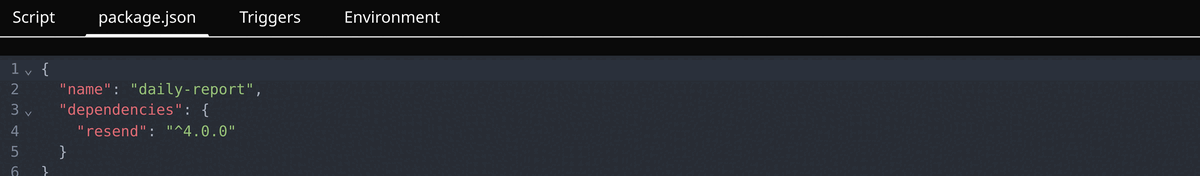
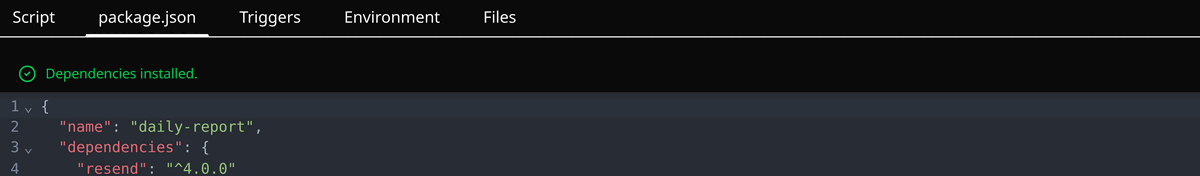
docs(site): refresh the captures and give the Files tab one of its own
The screenshots predated the fifth tab, so the editor shown on the landing
page still had four. All of them are regenerated from a running instance.

The Files tab now carries a capture and a row of its own in step one: the
other tabs show what the database holds, this one shows what the machine has
— the lockfile and the node_modules the install produced.

diff --git a/site/template.html b/site/template.html
@@ -124,6 +124,10 @@
                 <p>{{how.steps.0.bullets.2.text}}</p>
                 {{@shotRunner}}
               </li>
+              <li>
+                <p>{{how.steps.0.bullets.3.text}}</p>
+                {{@shotFiles}}
+              </li>
             </ul>
           </div>
         </li>
